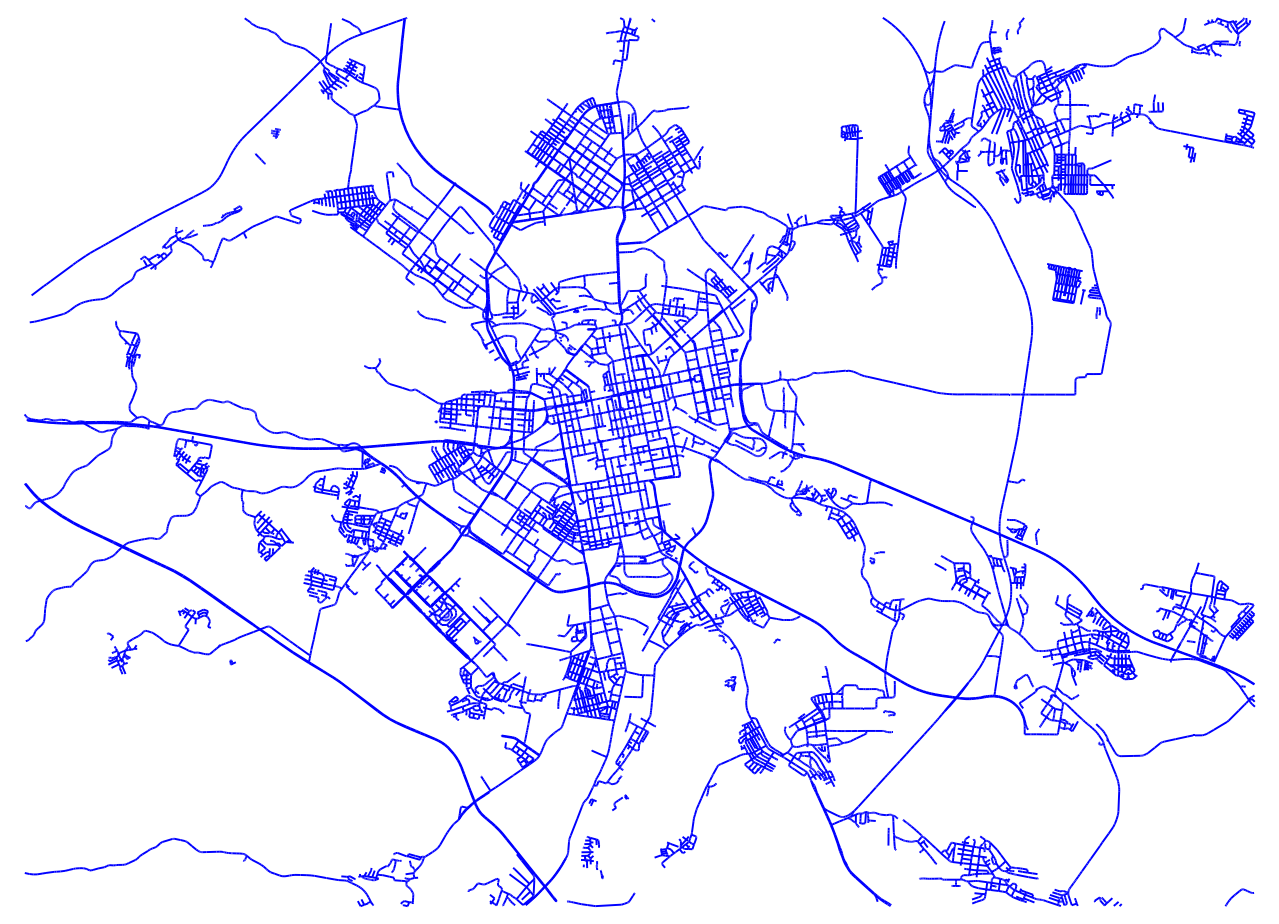
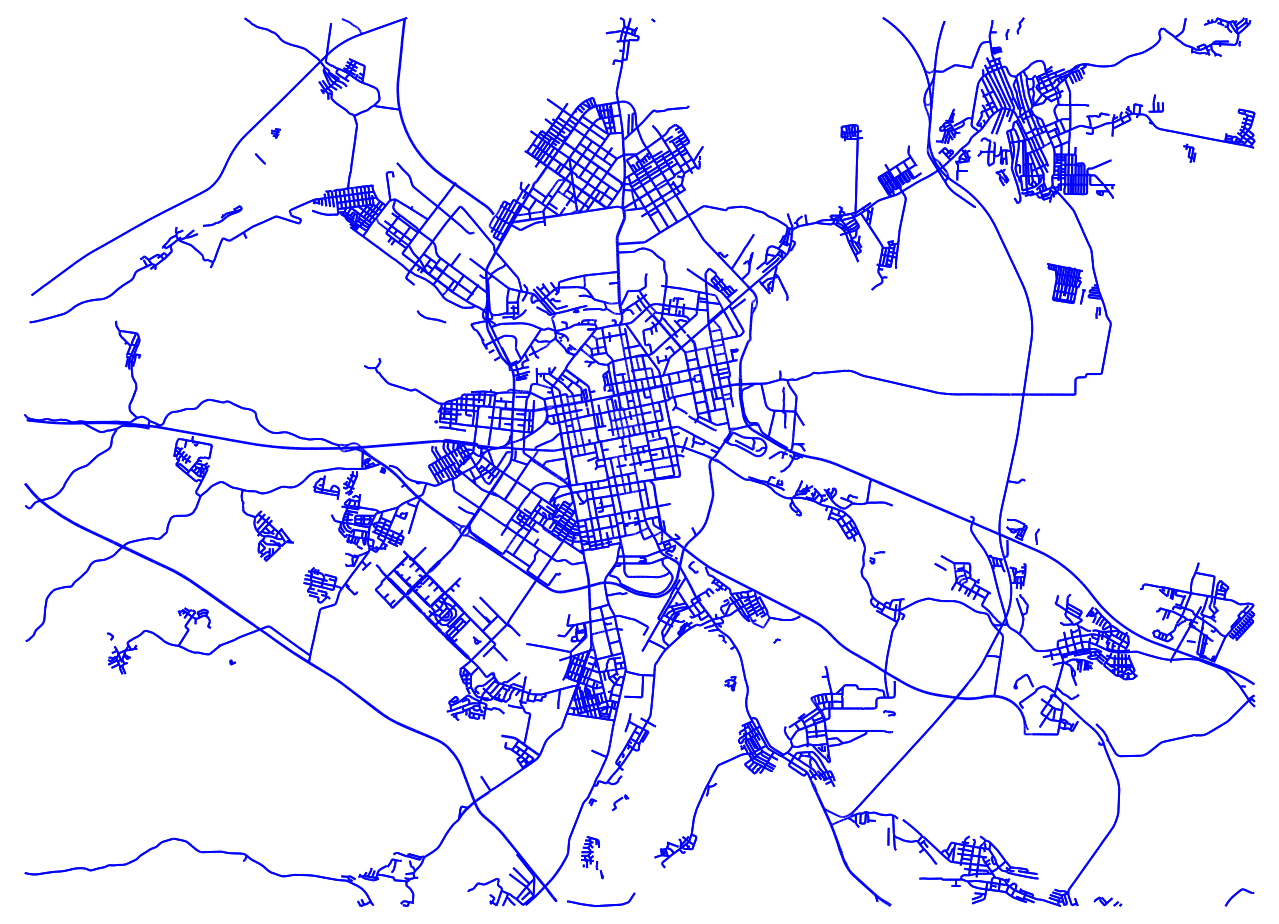
fixed cropping

diff --git a/MetricsCalculator.py b/MetricsCalculator.py
@@ -11,7 +11,7 @@ import csv
 # import json
 # import threading
 # import time
-# from matplotlib.lines import Line2D
+from matplotlib.lines import Line2D
 
 from utils.utils import *
 
@@ -62,12 +62,6 @@ class MetricsCalculator():
             fig, ax = ox.plot_graph(self.graph, save=True, show=False, filename='Ekb_graph', file_format='png',
                                     node_alpha=0, edge_color='b', edge_linewidth=0.7, dpi=200)
         ox.core.remove_isolated_nodes(self.graph)
-        # removing_nodes = []
-        # for i in self.graph.nodes:
-        #     node = self.graph.nodes[i]
-        #     if node['x'] < 60.46 or node['x'] > 60.86 or node['y'] < 56.74:
-        #         removing_nodes.append(i)
-        # self.graph.remove_nodes_from(removing_nodes)
         self.update_nodes_list()
         self.set_non_oriented_adj_list()
 
@@ -77,8 +71,15 @@ class MetricsCalculator():
         for i in dists:
             if dists[i] == float('inf'):
                 removing_nodes.append(i)
-
         self.graph.remove_nodes_from(removing_nodes)
+        self.update_nodes_list()
+
+        dists, _ = dijkstra(m.graph.adj, 175246547, m.weights)
+        inf_arr = []
+        for id_ in dists:
+            if dists[id_] == float('inf'):
+                inf_arr.append(id_)
+        self.graph.remove_nodes_from(inf_arr)
         self.update_nodes_list()
         self.set_non_oriented_adj_list()
 
@@ -537,7 +538,7 @@ class MetricsCalculator():
         for i in range(len(points)):
             for j in range(len(points[i])):
                 node = self.graph.nodes[points[i][j]]
-                ax.scatter(node['x'], node['y'], c=colors[colors_num], s=7, zorder=10)
+                ax.scatter(node['x'], node['y'], c=colors[colors_num], s=5, zorder=10)
                 if annotates is not None:
                     ax.annotate(xy=(node['x'], node['y']), s=str(annotates[i][j]), size=4,
                                 xytext=(node['x'] + 0.0025, node['y']))
@@ -585,17 +586,13 @@ class MetricsCalculator():
 
 
 if __name__ == "__main__":
-    # print("hello world")
-    # print(', '.join([1, 2, 3]))
     m = MetricsCalculator('./Ekb.osm')
     m.crop_and_save_graph()
-    #m.save_tree_plot([], [3754575475, 1180314607, 231270645, 175266257, 436363937,
-                          #4407072625, 1491524843, 1910990205, 413897080, 280313329], 'klfmkl', [(0, 1412634107)])
 
-    m.chosen_objs = [175246547, 4043484683, 3263470212, 2425474474, 7326442638]
-    m.chosen_inf_objs = [4353602429, 1185494724, 456682436, 411827206]
+    # m.chosen_objs = [175246547, 4043484683, 3263470212, 2425474474, 7326442638]
+    # m.chosen_inf_objs = [4353602429, 1185494724, 456682436, 411827206]
     # print(m.chosen_inf_objs)
-    print(m.nearest(mode="fwd", csv_file=None))
+    # print(m.nearest(mode="fwd", csv_file=None))
 
     # print(m.closer_than_x(10, "fwd"))
     # print(m.min_furthest_for_inf("fwd"))
